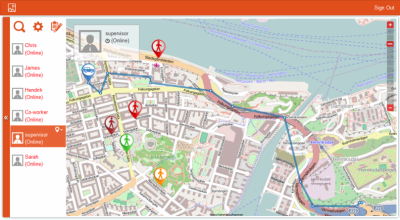
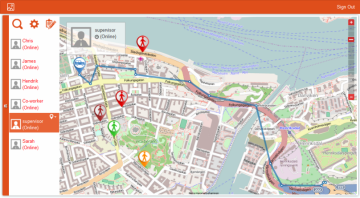
Changed screenshots and README.md.

diff --git a/README.md b/README.md
@@ -12,8 +12,12 @@ Basic features
 * Version optimized for mobile devices saves traffic and battery charge
 * Sensitive design
 
-![Screenshot 1](https://github.com/rubanbs/geomon/blob/master/public/img/screenshot-1-sm.png)
-![Screenshot 2](https://github.com/rubanbs/geomon/blob/master/public/img/screenshot-2-sm.png)
+[![Screenshot 1][2]][1]
+[1]: https://github.com/rubanbs/geomon/blob/master/public/img/screenshot-1-sm.png
+[2]: https://github.com/rubanbs/geomon/blob/master/public/img/screenshot-1.png
+[![Screenshot 2][2]][1]
+[1]: https://github.com/rubanbs/geomon/blob/master/public/img/screenshot-2-sm.png
+[2]: https://github.com/rubanbs/geomon/blob/master/public/img/screenshot-2.png
 
 ## Dev Stack
 
